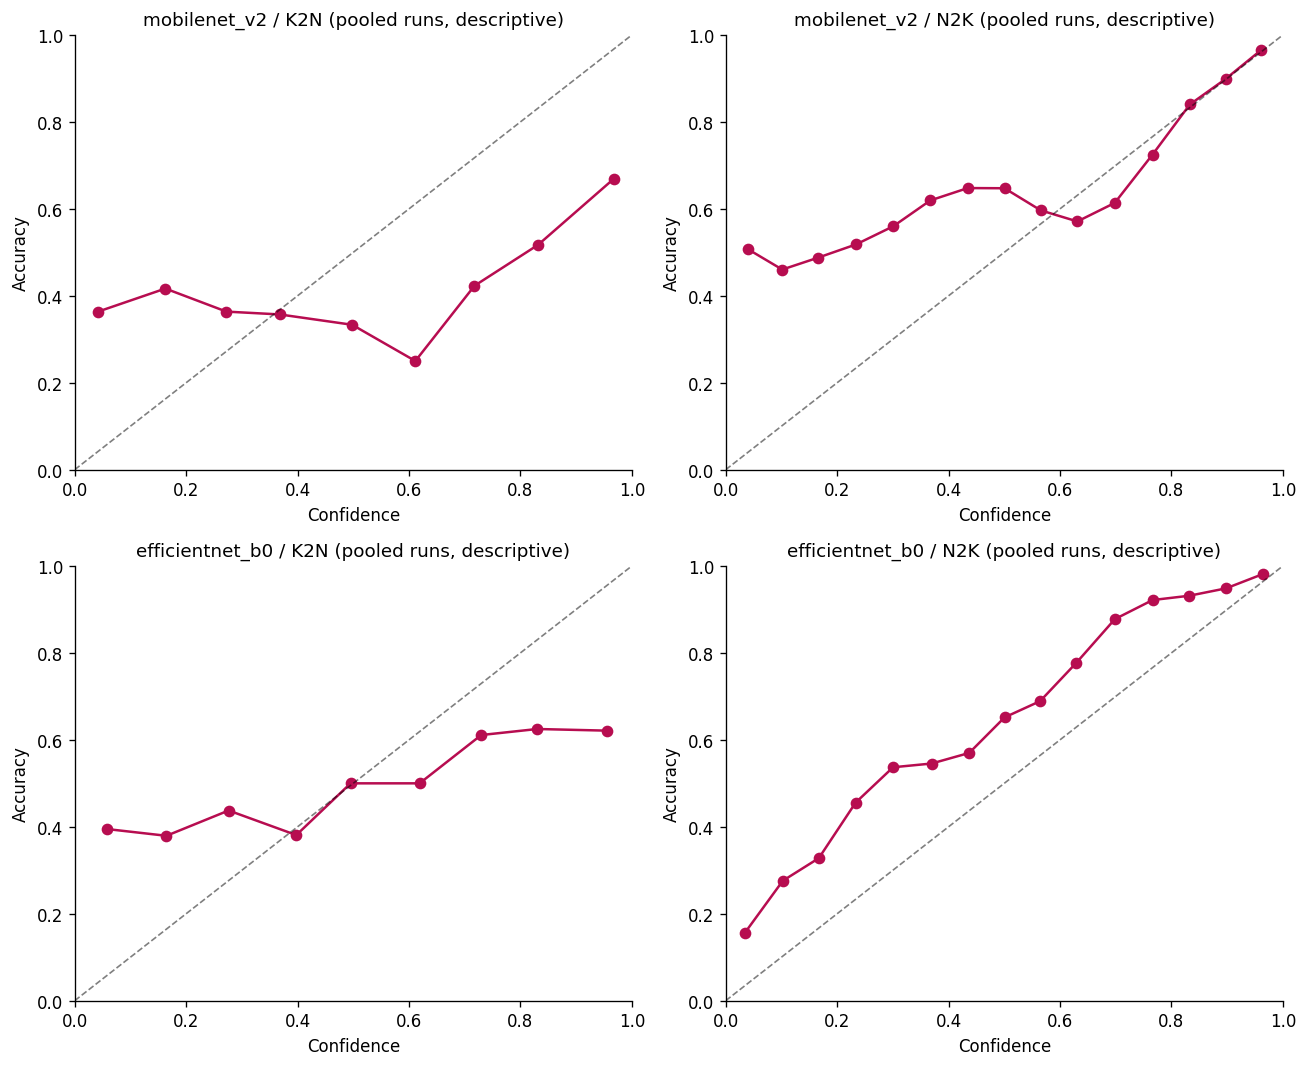
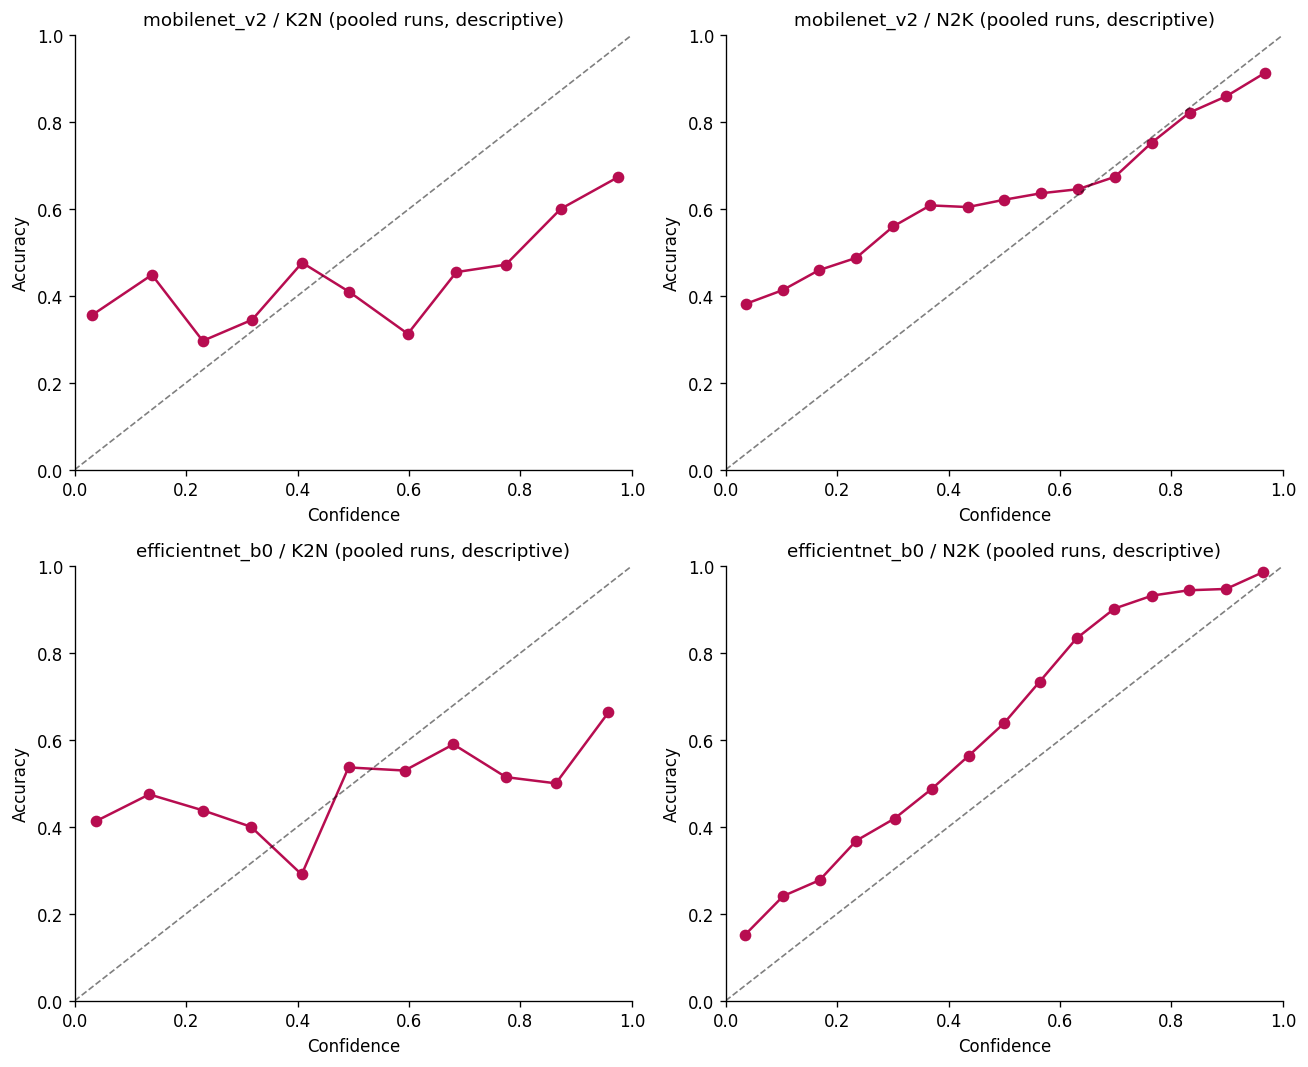
updated results after seed bumping

diff --git a/outputs/results/final/results_summary.md b/outputs/results/final/results_summary.md
@@ -1,33 +1,33 @@
 # Results Summary - crosspop-cxr-asymmetry
 
 ## Primary outcome: transfer gaps and asymmetry, per architecture
-- mobilenet_v2: Gap_K=0.316 [0.196,0.384], Gap_N=0.135 [0.034,0.214], Asymmetry=0.182 [0.039,0.336]
-- efficientnet_b0: Gap_K=0.353 [0.196,0.458], Gap_N=-0.028 [-0.068,0.031], Asymmetry=0.382 [0.165,0.525]
+- mobilenet_v2: Gap_K=0.321 [0.256,0.385], Gap_N=0.087 [0.008,0.160], Asymmetry=0.233 [0.125,0.351]
+- efficientnet_b0: Gap_K=0.377 [0.301,0.435], Gap_N=-0.067 [-0.105,-0.023], Asymmetry=0.444 [0.328,0.530]
 
 ## Calibration: run-level debiased ECE by condition/architecture
-- efficientnet_b0 / K2K: ECE=0.056 [0.034,0.089] (n_runs=9)
-- efficientnet_b0 / K2N: ECE=0.227 [0.166,0.281] (n_runs=9)
-- efficientnet_b0 / K2N_full: ECE=0.206 [0.175,0.236] (n_runs=9)
-- efficientnet_b0 / N2K: ECE=0.151 [0.124,0.178] (n_runs=15)
-- efficientnet_b0 / N2N: ECE=0.061 [0.029,0.101] (n_runs=15)
-- mobilenet_v2 / K2K: ECE=0.090 [0.074,0.108] (n_runs=9)
-- mobilenet_v2 / K2N: ECE=0.270 [0.227,0.314] (n_runs=9)
-- mobilenet_v2 / K2N_full: ECE=0.267 [0.227,0.302] (n_runs=9)
-- mobilenet_v2 / N2K: ECE=0.183 [0.132,0.229] (n_runs=15)
-- mobilenet_v2 / N2N: ECE=0.082 [0.040,0.126] (n_runs=15)
+- efficientnet_b0 / K2K: ECE=0.056 [0.039,0.076] (n_runs=18)
+- efficientnet_b0 / K2N: ECE=0.245 [0.200,0.288] (n_runs=18)
+- efficientnet_b0 / K2N_full: ECE=0.221 [0.200,0.241] (n_runs=18)
+- efficientnet_b0 / N2K: ECE=0.155 [0.136,0.173] (n_runs=30)
+- efficientnet_b0 / N2N: ECE=0.043 [0.025,0.066] (n_runs=30)
+- mobilenet_v2 / K2K: ECE=0.085 [0.069,0.103] (n_runs=18)
+- mobilenet_v2 / K2N: ECE=0.253 [0.215,0.293] (n_runs=18)
+- mobilenet_v2 / K2N_full: ECE=0.263 [0.239,0.285] (n_runs=18)
+- mobilenet_v2 / N2K: ECE=0.166 [0.137,0.196] (n_runs=30)
+- mobilenet_v2 / N2N: ECE=0.092 [0.063,0.123] (n_runs=30)
 
 ## Size-matched subsampling check (does raw K2N-vs-N2K ECE gap survive size-matching?)
-- mobilenet_v2: K2N actual ECE=0.272, N2K subsampled-to-30 mean=0.220 [0.092,0.370] -> gap does NOT clearly survive (may be partly a small-n artifact)
-- efficientnet_b0: K2N actual ECE=0.224, N2K subsampled-to-30 mean=0.184 [0.072,0.320] -> gap does NOT clearly survive (may be partly a small-n artifact)
+- mobilenet_v2: K2N actual ECE=0.259, N2K subsampled-to-30 mean=0.202 [0.081,0.338] -> gap does NOT clearly survive (may be partly a small-n artifact)
+- efficientnet_b0: K2N actual ECE=0.239, N2K subsampled-to-30 mean=0.181 [0.069,0.311] -> gap does NOT clearly survive (may be partly a small-n artifact)
 Note: this checks the RAW cross-population ECE gap only. The primary calibration
 claim rests on the debiased, in-domain-baselined run-level table above, which
 compares each model's cross-population ECE against its OWN in-domain baseline
 (structurally matched in evaluation-set size pairwise), not on this raw comparison.
 
 ## Significance summary (Holm-corrected where applicable)
-- Transfer-gap asymmetry (mobilenet_v2): estimate=0.182, p_holm=nan -> significant/reliable
-- Transfer-gap asymmetry (efficientnet_b0): estimate=0.382, p_holm=nan -> significant/reliable
-- Architecture contrast AUROC (N2K, ensemble-averaged): estimate=-0.17, p_holm=0.0 -> significant/reliable
+- Transfer-gap asymmetry (mobilenet_v2): estimate=0.233, p_holm=nan -> significant/reliable
+- Transfer-gap asymmetry (efficientnet_b0): estimate=0.444, p_holm=nan -> significant/reliable
+- Architecture contrast AUROC (N2K, ensemble-averaged): estimate=-0.151, p_holm=0.0 -> significant/reliable
 - Architecture contrast accuracy (N2K, ensemble-averaged): estimate=nan, p_holm=0.0 -> significant/reliable
 
 ## Togunwa fold class balance: max deviation from 1:1 = 0.065
